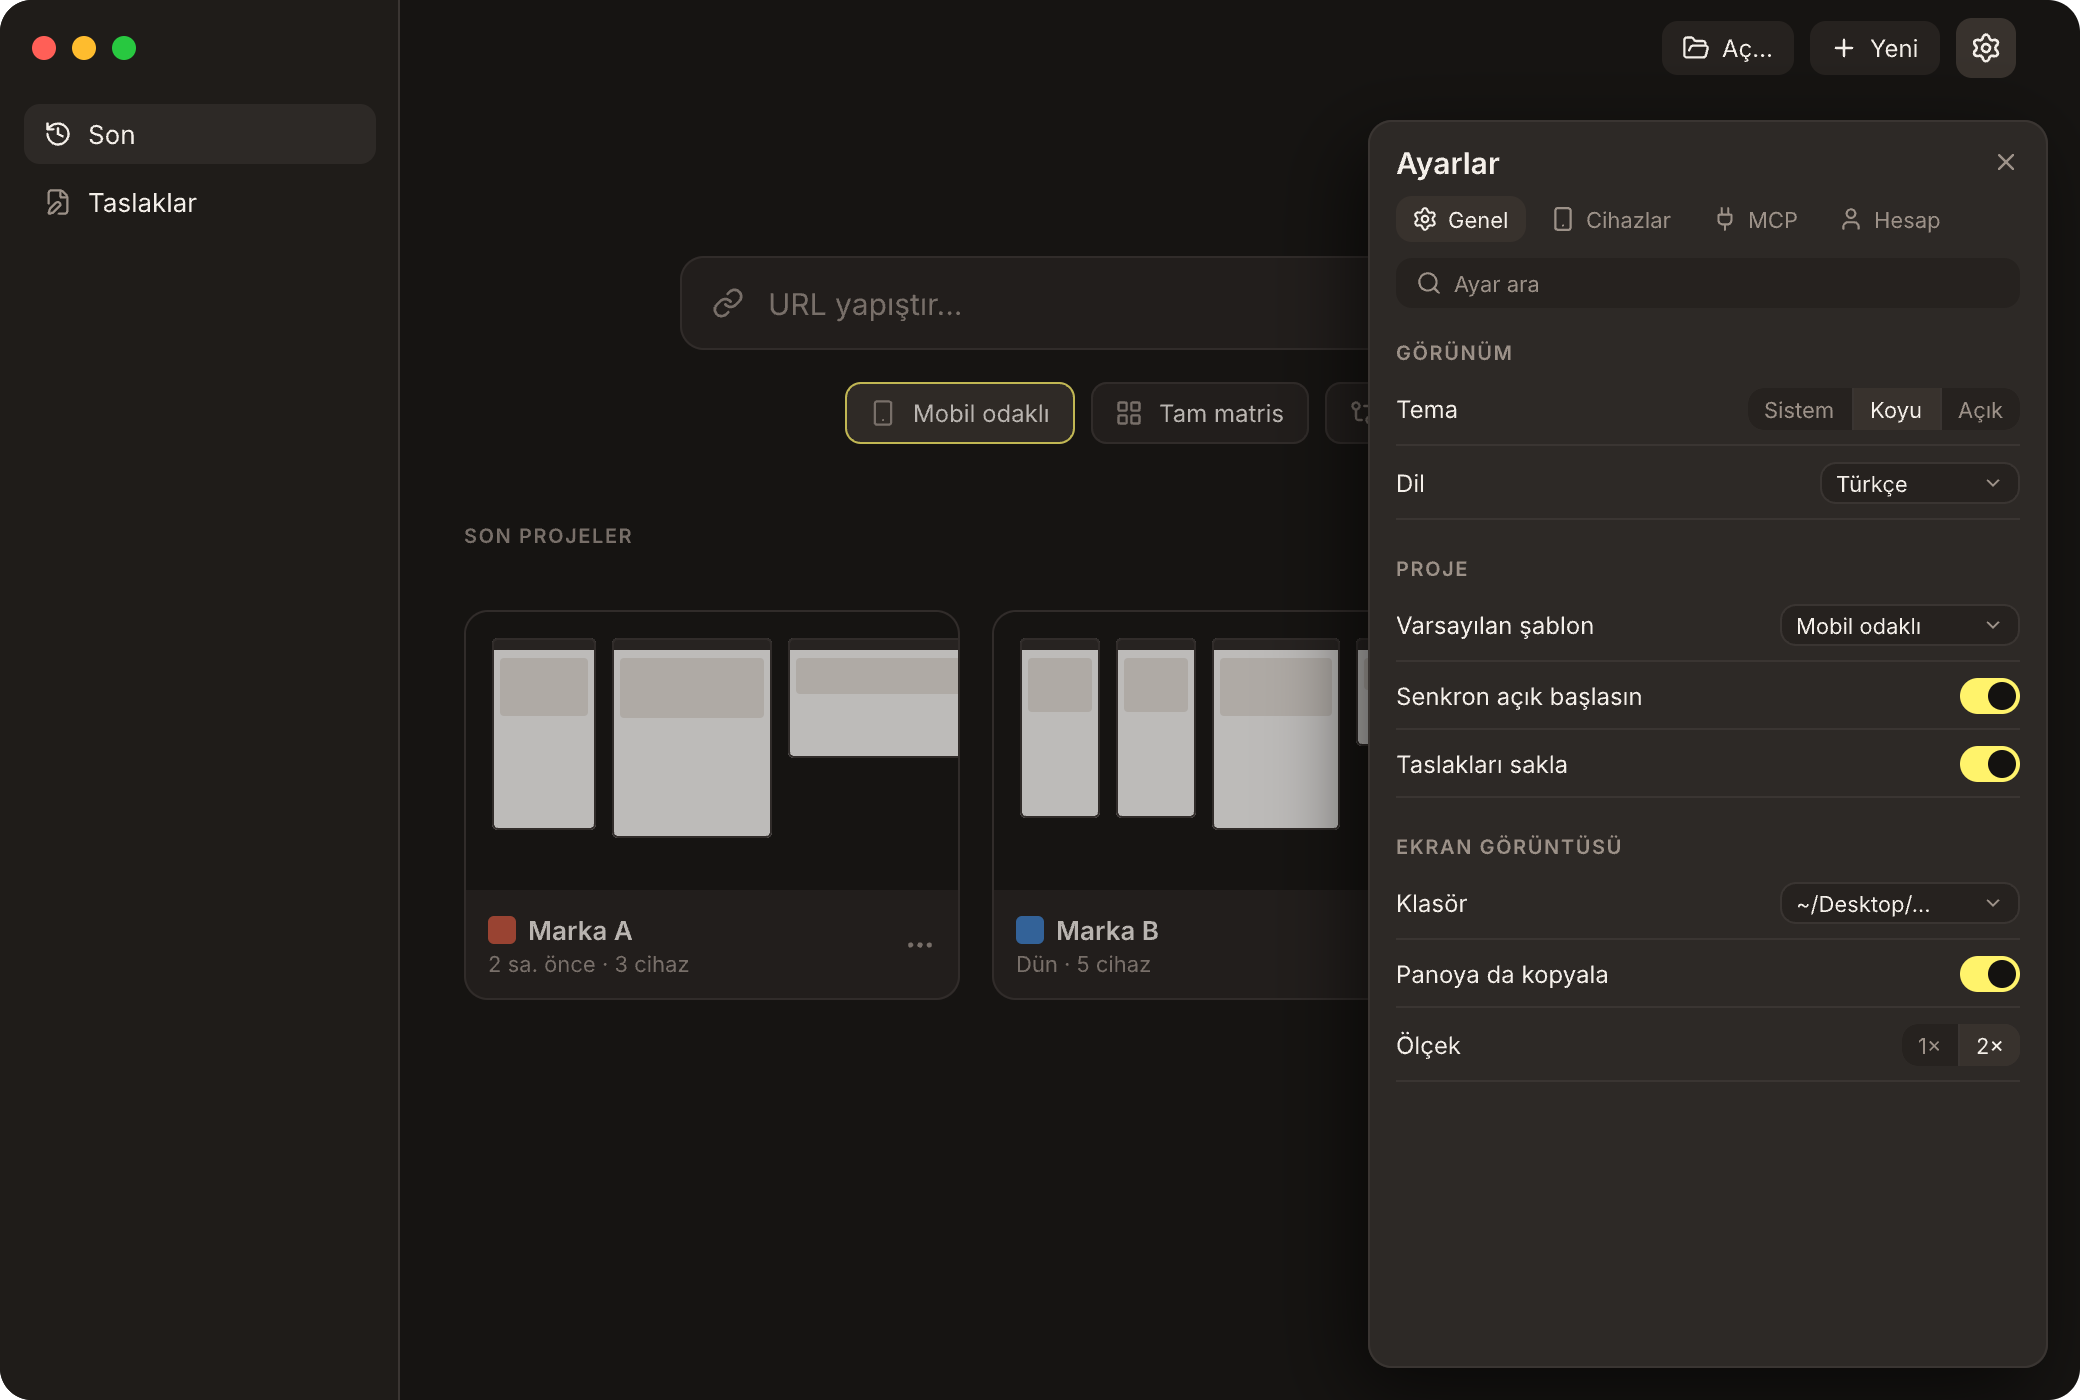
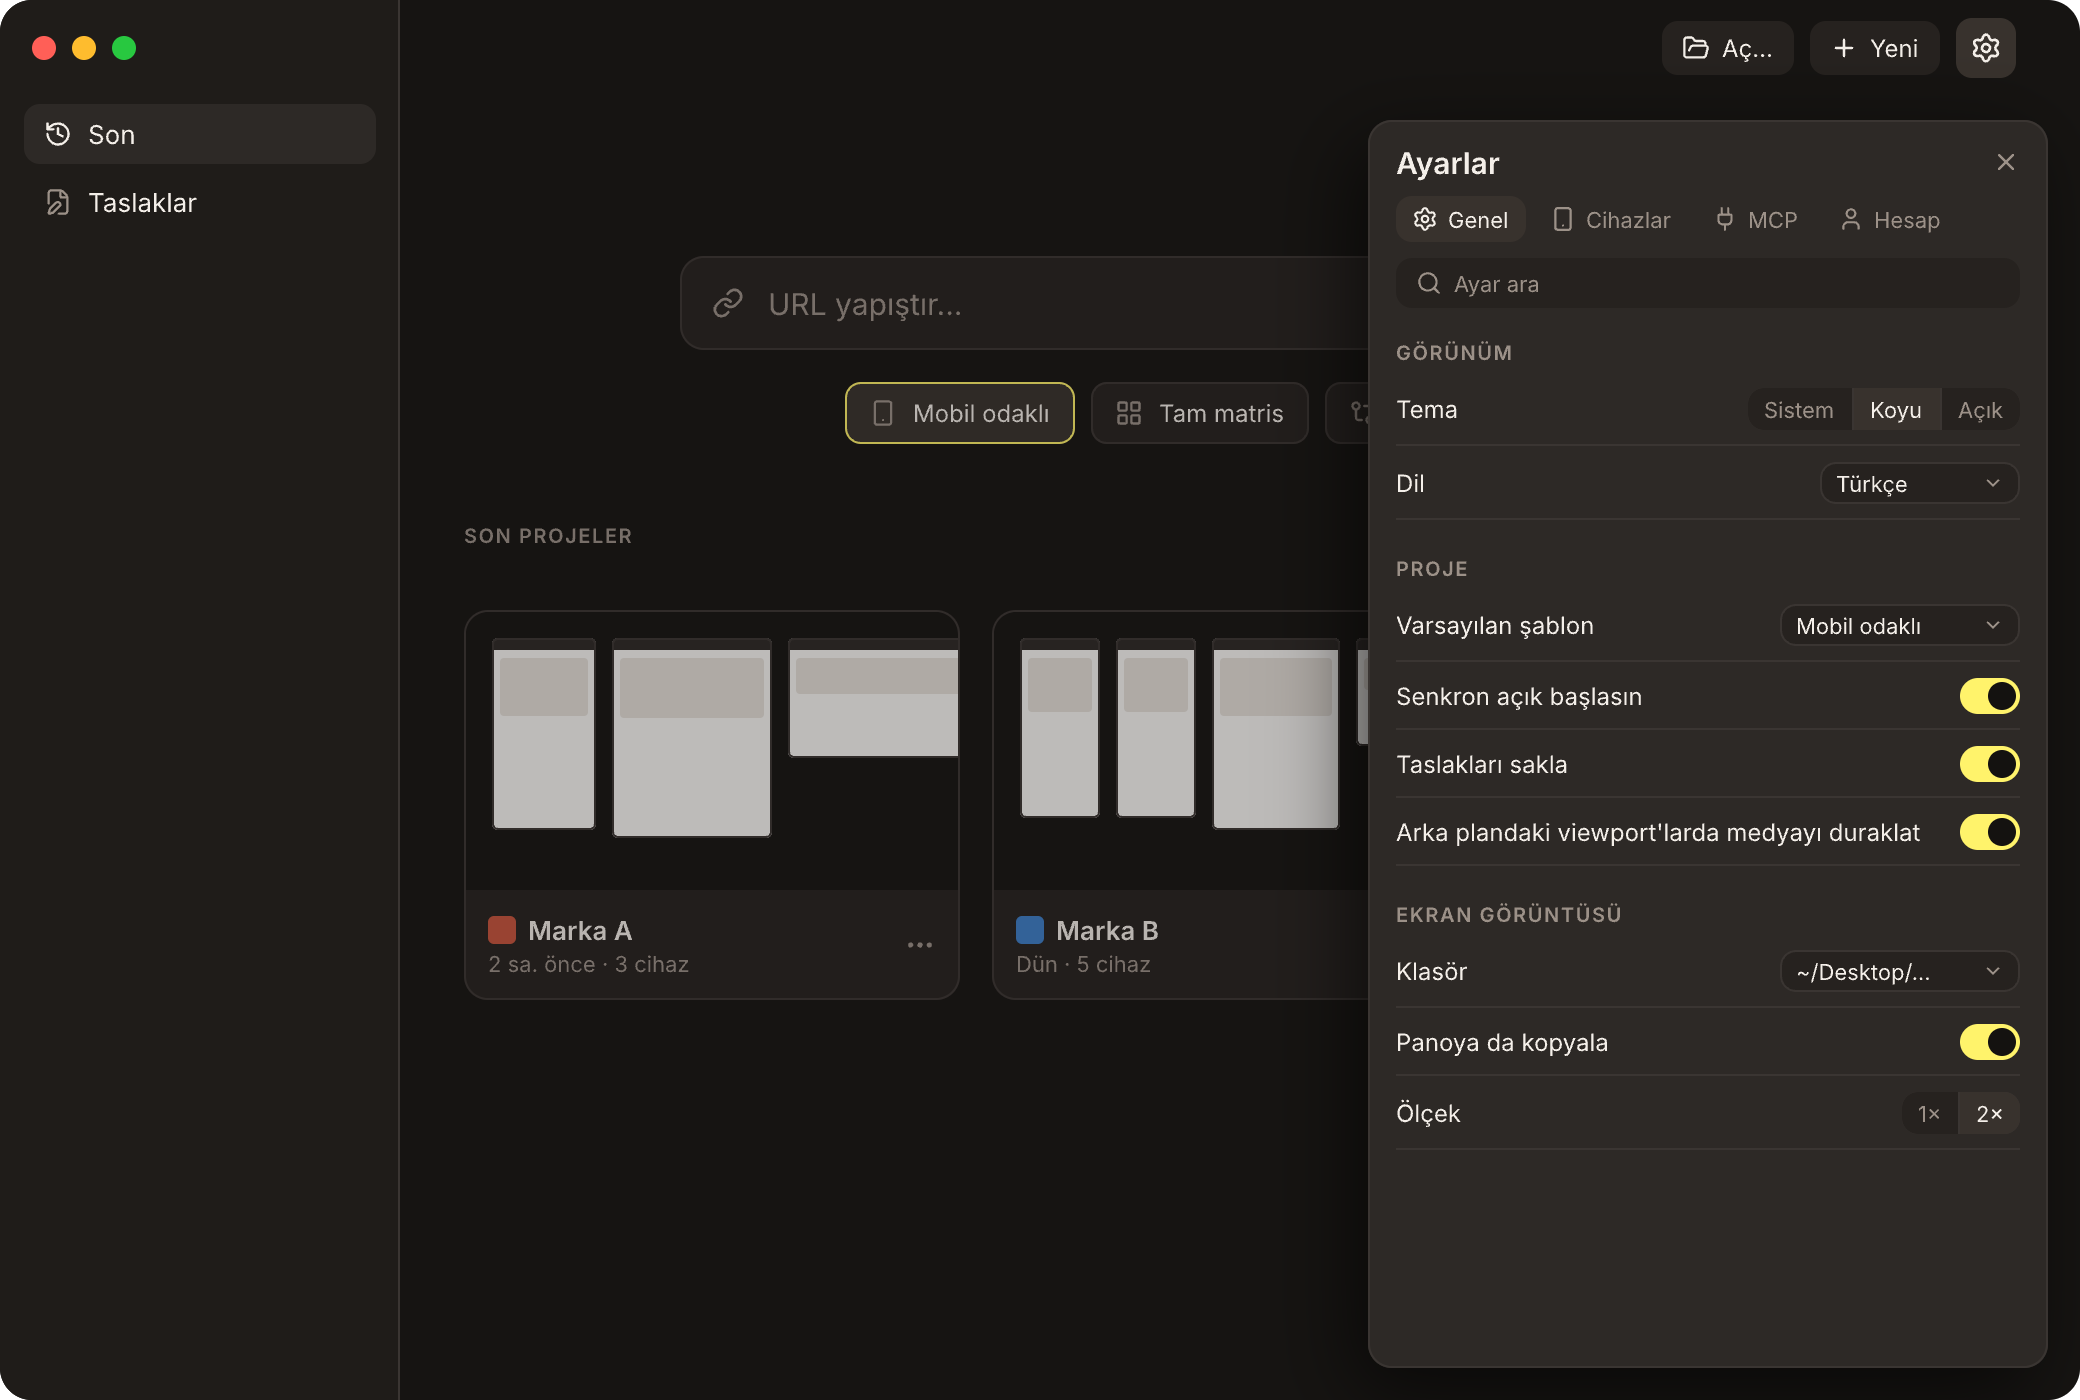
Default media pause to on; add media pause explainer

diff --git a/DESIGN.md b/DESIGN.md
@@ -181,7 +181,7 @@ Düzeltilen çakışmalar: ⌘S (seçili viewport ekran görüntüsü → kaldı
 
 Proje penceresinin sağ kenarında 44 px **ray** (varsayılan açık; alttaki düğmeyle tamamen gizlenir, tercih hatırlanır; gizliyken ⌘, ya da ilgili kısayol paneli açar): ⚙ Ayarlar, Cihazlar, MCP, Hesap; ayırıcı; Farklar, Senkron (M5); altta daralt. Rayın ikonuna tıklayınca ilgili panel açılır. **Varsayım (kullanımda doğrulanacak):** Ayarlar / Cihazlar / MCP / Hesap panelleri canvas'ın **üstüne kayar** (340 px, gölgeli, canvas yerinden oynamaz); Farklar ve Senkron panelleri canvas'ı **iter** (320 px, uzun süre açık kalır). Ayarlar panelinin başlığında yalnızca ✕; Farklar ve Senkron panellerinde ayrıca "pencereye çıkar" (⧉, ikinci ekrana almak için). ⌘, ayarları açar. Giriş ekranında ray yok; ⚙ düğmesi ve ⌘, aynı paneli açar (§3.1). Ayrı ayarlar penceresi yok.
 
-**Ayarlar paneli içeriği** (`window-project-settings-panel@2x.png`: ray + üstüne kayan panel): üstte sekme çipleri Genel · Cihazlar · MCP · Hesap, arama; GÖRÜNÜM (Tema Sistem / Koyu / Açık; Dil), PROJE (Varsayılan şablon; Senkron açık başlasın; Taslakları sakla), EKRAN GÖRÜNTÜSÜ (Klasör; Panoya da kopyala; Ölçek 1× / 2×); PROJE altında ayrıca "Arka plandaki viewport'larda medyayı duraklat" (varsayılan kapalı; Görünüm menüsünde de), **BU PROJE** (Cihazlar (n) → Cihazlar sekmesi; Motor). Sekme içerikleri:
+**Ayarlar paneli içeriği** (`window-project-settings-panel@2x.png`: ray + üstüne kayan panel): üstte sekme çipleri Genel · Cihazlar · MCP · Hesap, arama; GÖRÜNÜM (Tema Sistem / Koyu / Açık; Dil), PROJE (Varsayılan şablon; Senkron açık başlasın; Taslakları sakla), EKRAN GÖRÜNTÜSÜ (Klasör; Panoya da kopyala; Ölçek 1× / 2×); PROJE altında ayrıca "Arka plandaki viewport'larda medyayı duraklat" (**varsayılan açık**: ses ve video yalnızca imlecin üstündeki viewport'ta oynar, diğerleri durur ve sessizdir; Görünüm menüsünde de, tikli; açıklama `temp-media-pause-explainer@2x.png`), **BU PROJE** (Cihazlar (n) → Cihazlar sekmesi; Motor). Sekme içerikleri:
 - **Cihazlar:** cihaz yönetimi; "Cihazları yönet…" buraya açılır. Arama, "İçe aktar…", "+ Cihaz"; tablo Ad (özel cihazda "özel"), Tür, Boyut, Ölçek, Seçicide (toggle; kapalıysa listede kalır, "+ Cihaz" menüsünde görünmez), ⋯. Yerleşik cihazlar silinemez, gizlenir; "Seçicide" kapatmak açık projelerdeki kartları etkilemez. Özel cihazlar uygulamayla saklanır.
 - **MCP** (M7): durum (nokta + "stdio · 2 istemci · 14 araç"; Durdur/Başlat), Taşıma stdio / HTTP, Komut + Kopyala, İzinler (Ekran görüntüsü alma, Gezinme ve tıklama, DOM diff okuma, Proje dosyası yazma — varsayılan kapalı), Bağlı istemciler (ad, son istek, Bağlantıyı kes).
 - **Hesap:** avatar, ad, e-posta, Çıkış yap; Takım; Lisans ("Dahili"; iş modeli sonra); Güncelleme.
@@ -259,6 +259,7 @@ Sağ raydan açılır, canvas'ı iter (320 px). Tasarım ilkesi: **sakin ama tek
 | Uygulama ikonu: B6 "Vx monogram" — koyu zemin (#161412), sarı köşe bracket'leri (#FFF36B, 30 px uzunluk, 14 px kalınlık, 44 px kenar boşluğu @220), ortada krem "Vx" (#FAF8F5, kalın, sıkı letter-spacing). Eskiz `App Icon · B variants`, `app-icon-B-variants@2x.png`; üretim Icon Composer'da 1024 px, üç katman (zemin / bracket'ler / Vx). Elenenler: A üç genişlik, C V harfi, B1–B5 | 2026-10-10 |
 | Yazı tipi: uygulamada sistem yazı tipi SF Pro (arayüz) + SF Mono (sayılar, seçiciler, ölçüler); pen.dev yalnızca Google Fonts çizdiği için tasarım dosyasında vekil Inter + JetBrains Mono. Marka fontu (Geist, IBM Plex, DM Sans, Manrope) karşılaştırıldı, reddedildi: native his ve Dinamik Tür korunur, kimliği palet + ikon + kart dili taşır | 2026-10-10 |
 | Pencere chrome'u bileşen oldu: `Sidebar/Header`, `Window/CollapsedHeader`, `Window/DeviceStrip` (sekmeler slot), `Window/BottomBar`, `Window/Rail`; tüm proje penceresi frame'leri bunların instance'ı. Ray artık her proje penceresi frame'inde (varsayılan açık kararına uyum); şerit ve alt çubuk canvas'a göre ortalı; anatomi ve durumlar `Chrome Spec` (05) | 2026-10-10 |
+| Medya duraklatma varsayılan **açık** (önceki "varsayılan kapalı" superseded): ses/video yalnızca imlecin üstündeki viewport'ta; canvas'ta düğmesi yok, yalnız Görünüm menüsü ve Ayarlar › Genel › PROJE | 2026-10-10 |
 
 ## 5. Bekleyen tasarım kararları
 

diff --git a/design/notlar/2026-10-10.md b/design/notlar/2026-10-10.md
@@ -59,3 +59,5 @@
 - `docs/tasarim-istekleri.md` (12 girdi) işlendi: kısayol haritası (çakışmalar: ⌘S, ⇧⌘S, ⌘N, ⌥⌘↑/↓ düzeltildi), %100 yazımı, medya ayarı, kart senkron kapalı / sağ tık / boyut popover (`Card Actions`), alt ajan: canvas boş, kapsül halleri, sayfa sağ tık menüsü. Yeni frame'ler bölümlere yerleşti. **İşlendi**.
 - Kullanıcı: kamera önce sorsun (görünen alan / tam sayfa), kart sağ tık menüsünde ekran görüntüsü olmasın. Alt çubuk seçicisi ve kart kamerası seçicisi çizildi; kart menüsünden iki madde kaldırıldı. **İşlendi** (DESIGN.md §3.2, §4).
 - Kullanıcı: toolbar'ı ayrıca çizmeye gerek var mı → öneri: chrome'u bileşenleştir + spec. Onay ("tamam yap detaylı"). Beş bileşen 00b'de (x≈4300, y=-640): `Sidebar/Header` (tzWBu), `Window/BottomBar` (I3EMY), `Window/DeviceStrip` (Z3xtg, `Tabs` slot), `Window/Rail` (O8YpHG), `Window/CollapsedHeader` (P0uqV). 15 proje/dev panel frame'indeki kopyalar instance'a çevrildi; durumlar override (zoom/kamera/Sığdır basılı, URL odak, rayda aktif öğe). Ray olmayan 9 frame'e ray eklendi; şerit, alt çubuk ve kapsül canvas'a göre ortalandı, bağlı menüler (zoom, ekran görüntüsü, +N, cihaz seçici, tooltip) aynı farkla kaydırıldı. `Chrome Spec` (JGcRx, 05 bölümü, x=8400) çizildi; Tokens panosuna 5 SwiftUI satırı; 00 bölümü 200 px yukarı (pano 00b başlığına biniyordu). Bulgu: `size/sidebar` 220 ve iten panel 300 yazıyordu, çizimler 240 / 320 → token'lar (pen, JSON, Swift, typecheck temiz) ve DESIGN.md çizime eşitlendi. Küçük düzeltmeler: gizli cihaz menüsü 340→376 (Laptop alt satırı uyarı ikonuna değiyordu); `Fark yok` ve `Canvas boş` rayında rozet kapalı; boş olmayan rayda Farklar öğesinin zemini kaldırıldı (yalnızca aktif öğe zeminli). 16 dışa aktarım yenilendi + `chrome-spec@2x.png`. **İşlendi** (DESIGN.md §4, §6).
+- Kullanıcı medya duraklatmayı ve senkron kapalı kartı anlamadı; açıklandı, medya için `TEMP · Medya duraklatma açıklaması` (MRl49, x=10400 y=6040) çizildi (`temp-media-pause-explainer@2x.png`). Ayarlar › Cihazlar/MCP/Hesap sekmelerinin panel içi çizimi yok (ayrı pencereyle silinmişti), yalnız §3.3 metni; öneri: panelde iki satırlı liste, kullanıcıya soruldu.
+- Karar: medya duraklatma varsayılan açık. İki ayarlar panelinde toggle açıldı, dışa aktarımlar yenilendi. **İşlendi** (DESIGN.md §3.3, §4; KOD-OTURUMU-ISLERI §10).

diff --git a/design/KOD-OTURUMU-ISLERI.md b/design/KOD-OTURUMU-ISLERI.md
@@ -96,3 +96,7 @@ DESIGN.md §3.2 sonundaki **etkileşim tablosu** tetikleyici → etki → hareke
 - [ ] Pencere parçaları ayrı SwiftUI görünümleri: `SidebarHeader`, `CollapsedSidebarHeader`, `DeviceStrip`, `BottomBar`, `InspectorRail` (DESIGN.md §6 tablosu). Ölçü, token ve durumlar `Chrome Spec` frame'inde ve `design/exports/chrome-spec@2x.png`.
 - [ ] Yerleşim: şerit canvas'ın üstünde ortada (üstten 16), alt çubuk altta ortada (alttan 31), kapsül canvas sol üstü (16, 16), ray sağ kenarda. Ortalama sidebar, ray ve iten panel çıktıktan sonra kalan canvas alanına göre; bağlı menüler tetikleyicisine hizalı.
 - [ ] Token düzeltmesi: `Size.sidebar` 240 (220 değil), `Size.panelDocked` 320 (300 değil). `design/tokens/DesignTokens.swift` güncellendi, yeniden kopyala.
+
+## 10. Medya duraklatma varsayılanı (2026-10-10, kullanıcı kararı)
+
+- [ ] "Arka Plandaki Medyayı Duraklat" **varsayılan açık** gelsin (senin girdinde varsayılan kapalıydı). İlk açılışta tikli; kullanıcı kapatırsa tercih saklanır. Görünüm menüsü maddesi ve Ayarlar › Genel › PROJE toggle'ı aynı değeri gösterir. DESIGN.md §3.3, §4.
